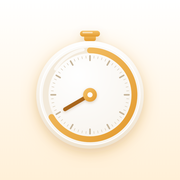
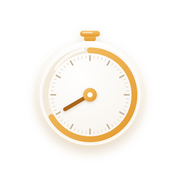
Add files via upload

diff --git a/index.html b/index.html
@@ -74,7 +74,7 @@
 
     <!-- App 開啟畫面（只在加到主畫面的 App 出現） -->
     <div id="splash" aria-hidden="true">
-        <svg viewBox="0 0 150 150" width="76" height="76"><circle cx="75" cy="75" r="56" fill="none" stroke="rgba(242,240,233,0.12)" stroke-width="12"/><circle cx="75" cy="75" r="56" fill="none" style="stroke:var(--accent)" stroke-width="12" stroke-linecap="round" stroke-dasharray="351.9" stroke-dashoffset="88" transform="rotate(-90 75 75)"/><circle cx="75" cy="75" r="9" style="fill:var(--accent)"/></svg>
+        <img src="splash-logo.png" width="88" height="95" alt="">
         <span>STRIDE</span>
     </div>
 
@@ -1192,7 +1192,7 @@
     <!-- 第一次打開：加到主畫面教學 -->
     <div class="modal" id="installModal" data-locked role="dialog" aria-modal="true" aria-labelledby="installTitle">
         <div class="sheet install-card">
-            <div class="install-head"><svg viewBox="0 0 150 150" width="56" height="56" aria-hidden="true" class="install-icon"><circle cx="75" cy="75" r="50" fill="none" stroke="rgba(242,240,233,.14)" stroke-width="12"/><circle cx="75" cy="75" r="50" fill="none" style="stroke:var(--accent)" stroke-width="12" stroke-linecap="round" stroke-dasharray="314" stroke-dashoffset="80" transform="rotate(-90 75 75)"/><circle cx="75" cy="75" r="9" style="fill:var(--accent)"/></svg>
+            <div class="install-head"><img class="install-icon" src="icon-192.png" width="56" height="56" alt="">
                 <h2 id="installTitle">把 Stride 加到主畫面</h2>
                 <p>像 App 一樣全螢幕開啟、打開更快</p>
             </div>

diff --git a/style.css b/style.css
@@ -301,7 +301,7 @@ html[data-bg="photo"][data-theme="dark"] { --surface: rgba(12, 13, 18, .42); }
     background: #050608; color: rgba(242, 240, 233, 0.8); font: 700 13px 'Noto Sans TC', sans-serif; letter-spacing: 0.4em; text-indent: 0.4em;
     transition: opacity 0.5s ease, visibility 0.5s;
 }
-#splash svg { animation: splashIn 0.6s cubic-bezier(0.2, 0.8, 0.2, 1); }
+#splash img { animation: splashIn 0.6s cubic-bezier(0.2, 0.8, 0.2, 1); }
 @keyframes splashIn { from { opacity: 0; transform: scale(0.9); } to { opacity: 1; transform: none; } }
 @media (display-mode: standalone), (display-mode: fullscreen) { #splash { display: flex; } }
 #splash.hide { opacity: 0; visibility: hidden; }
@@ -1042,7 +1042,7 @@ body.sub #themeBtn, body.sub #accountBtn { display: none; }
 /* --- 加到主畫面教學（置中圖卡） --- */
 .install-card { max-width: 380px; padding: 26px 22px 22px; border-radius: 28px; }
 .install-head { text-align: center; margin-bottom: 18px; }
-.install-icon { border-radius: 16px; background: #050608; display: block; margin: 0 auto 14px; box-shadow: 0 10px 30px rgba(var(--accent-rgb), 0.25); }
+.install-icon { border-radius: 16px; background: #fff; display: block; margin: 0 auto 14px; box-shadow: 0 10px 30px rgba(var(--accent-rgb), 0.25); }
 .install-head h2 { margin: 0 0 6px; font-size: 19px; }
 .install-head p { margin: 0; font-size: 13.5px; color: var(--muted); font-family: 'Noto Sans TC', sans-serif; }
 .install-card .seg { display: grid; margin-bottom: 6px; }

diff --git a/app.js b/app.js
@@ -61,7 +61,7 @@ const AI_ON = false;
 if (AI_ON) document.documentElement.classList.add('ai-on');
 // v70：讀書地圖先拿掉了（還沒達到想要的效果）。程式碼在 v69 的版本裡，之後要做可以從那裡拿回來
 // AI 讀書計畫用的模型（Firebase AI Logic → Gemini Developer API）
-const APP_VERSION = 'v77';   // 每次更新記得跟 service-worker.js 的 CACHE_NAME 一起改
+const APP_VERSION = 'v78';   // 每次更新記得跟 service-worker.js 的 CACHE_NAME 一起改
 const AI_MODEL = 'gemini-3.5-flash';
 const AI_FALLBACK_MODEL = 'gemini-3.5-flash-lite';   // 主要模型太忙時改用（穩定版，至少用到 2027 年 7 月）
 // App Check 金鑰（Fraud Defense，舊稱 reCAPTCHA Enterprise）：在 Google Cloud 建立後貼在這裡；留空就不啟用

diff --git a/service-worker.js b/service-worker.js
@@ -1,6 +1,6 @@
 // 快取版本號：以後更新 index.html、style.css、app.js 任何一個時，把這個數字改一下（例如 v11, v12...）
 // 才能讓使用者的手機抓到新版本並清掉舊快取
-const CACHE_NAME = 'study-countdown-v77';
+const CACHE_NAME = 'study-countdown-v78';
 
 // 開啟時要預先快取的本機檔案
 const PRECACHE_URLS = [
@@ -13,7 +13,8 @@ const PRECACHE_URLS = [
   './icon-192.png',
   './icon-512.png',
   './apple-touch-icon.png',
-  './favicon-32.png'
+  './favicon-32.png',
+  './splash-logo.png'
 ];
 
 // 可以存進快取、讓 App 離線也能開的外部資源（Firebase 程式庫、字型）
